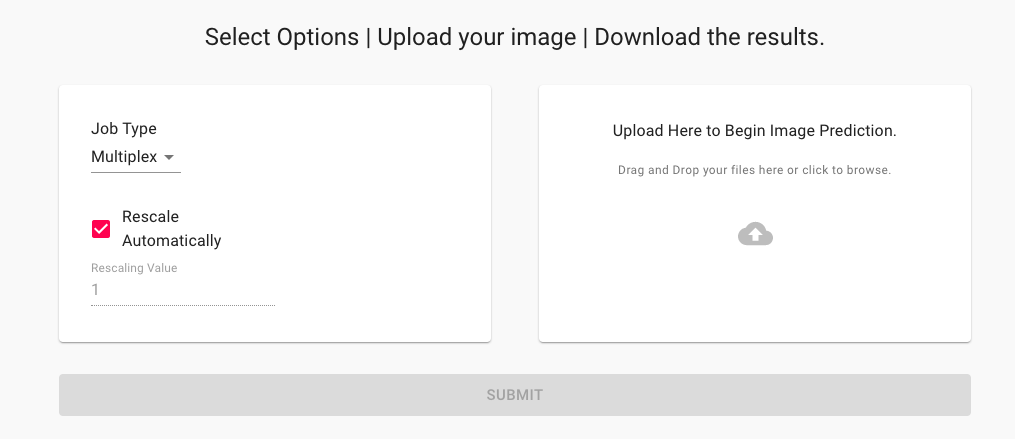
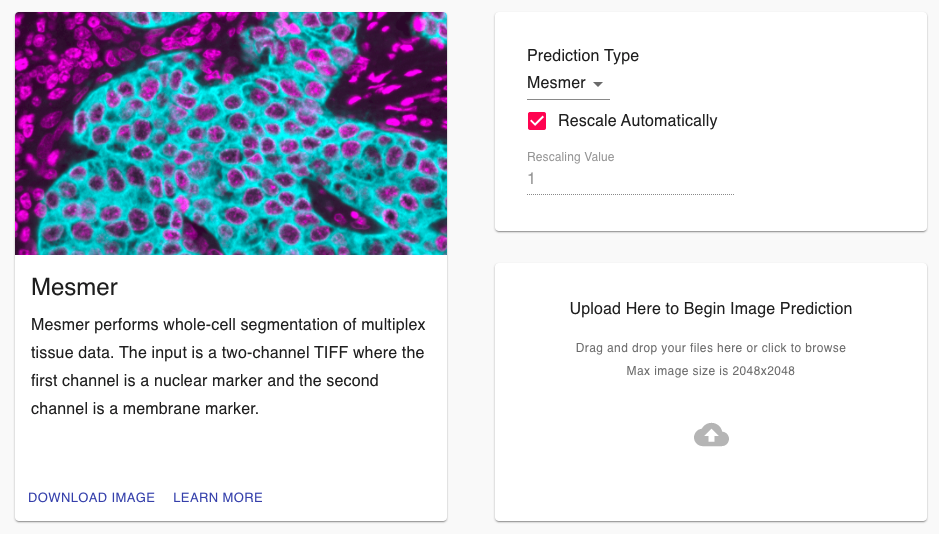
Update Multiplex model to Mesmer. (#33)
* Add publication specific resources to README (#34)

* Update screenshots of the new frontend page.

* Add biorXiv link for Mesmer paper.

diff --git a/README.md b/README.md
@@ -35,6 +35,24 @@ This tutorial will provide a gentle introduction to all three areas. Additionall
 * Introduction to `deepcell-tf`
 * Training a model in Google Colab
 
+## Publications
+
+To learn more about the various systems and software that comprise DeepCell, please refer to the publications below. Relevant links are highlighted below each publication.
+
+[Greenwald, Miller et al. Whole-cell segmentation of tissue images with human-level performance using large-scale data annotation and deep learning](https://www.biorxiv.org/content/10.1101/2021.03.01.431313v2)
+
+* The TissueNet dataset will be released through [deepcell.datasets](https://datasets.deepcell.org) at the time of publication
+* The Mesmer pipeline can be run from deepcell.org or via ImageJ/QuPath plugins by reading our documentation on [running pretrained models in the cloud](./pretrained_models#running-pre-trained-models-in-the-cloud)
+* The Mesmer pipeline can be run locally via a jupyter notebook as shown in this [example notebook](https://github.com/vanvalenlab/deepcell-tf/blob/master/notebooks/applications/Mesmer-Application.ipynb), or from the command line using our [application Docker](https://github.com/vanvalenlab/deepcell-applications/blob/master/README.md)
+* The ark-analysis multiplexed image analysis pipeline is at [this github link](https://github.com/angelolab/ark-analysis)
+* All code for model training and figure generation for the paper can be found in our [publication figures repo](https://github.com/vanvalenlab/publication-figures/tree/master/2021-Greenwald_Miller_et_al-Mesmer)
+
+[Bannon et al. DeepCell Kiosk: scaling deep learning–enabled cellular image analysis with Kubernetes](https://doi.org/10.1038/s41592-020-01023-0)
+
+* The DeepCell Kiosk can be downloaded from the [github repo](https://github.com/vanvalenlab/kiosk-console) and additional documentation is hosted on [Read the Docs](https://deepcell-kiosk.readthedocs.io/en/master/GETTING_STARTED.html)
+* A persistent deployment of the Kiosk is hosted at [https://deepcell.org/](https://deepcell.org/)
+* The code used to generate figures from the paper is available in our [publication figure repo](https://github.com/vanvalenlab/publication-figures/tree/mesmer_update/2020-Bannon_et_al-Kiosk)
+
 ## Copyright
 
 Copyright © 2016-2021 [The Van Valen Lab](http://www.vanvalen.caltech.edu/) at the California Institute of Technology (Caltech), with support from the Shurl and Kay Curci Foundation, Google Research Cloud, the Paul Allen Family Foundation, & National Institutes of Health (NIH) under Grant U24CA224309-01.

diff --git a/pretrained_models/README.md b/pretrained_models/README.md
@@ -7,7 +7,7 @@ We have provided a range of options to access these models. Please see below for
 ## Table of Contents
 
 * [Formatting data for pre-trained models](#formatting-data-for-pre-trained-models)
-  * Multiplex segmentation model
+  * Mesmer segmentation model
   * Nuclear segmentation model
 * [Running pre-trained models in the cloud](#running-pre-trained-models-in-the-cloud)
   * Deepcell.org
@@ -21,9 +21,9 @@ We have provided a range of options to access these models. Please see below for
 
 Each of the models we host has slightly different requirements for input data. Please identify which of the following models you will be using, and make sure your data is formatted appropriately.
 
-### Multiplex segmentation model
+### Mesmer segmentation model
 
-The multiplex model performs whole-cell segmentation of tissue imaging data. The input to the model is two-channel images. The first channel must be a nuclear channel (such as DAPI). The second channel must be a membrane or cytoplasmic channel (such as E-Cadherin).  
+The Mesmer model performs whole-cell segmentation of tissue imaging data. The input to the model is two-channel images. The first channel must be a nuclear channel (such as DAPI). The second channel must be a membrane or cytoplasmic channel (such as E-Cadherin).  
 
 <table width="700" border="1" cellpadding="5">
 
@@ -93,7 +93,7 @@ Generating data from the website is quite easy.
 
 ![image](resources/DeepCell_website_predict.png)
 
-2. This will take you to the image upload interface. The default model is `multiplex`. Before submitting your image, make sure you understand [the available models and data formatting requirements](#formatting-data-for-web-based-models). Upload your image by dragging it into the upload box, or by clicking and then browsing to find your image.  
+2. This will take you to the image upload interface. The default model is `Mesmer`. Before submitting your image, make sure you understand [the available models and data formatting requirements](#formatting-data-for-web-based-models). Upload your image by dragging it into the upload box, or by clicking and then browsing to find your image.  
 
 ![image](resources/DeepCell_website_upload.png)
 
